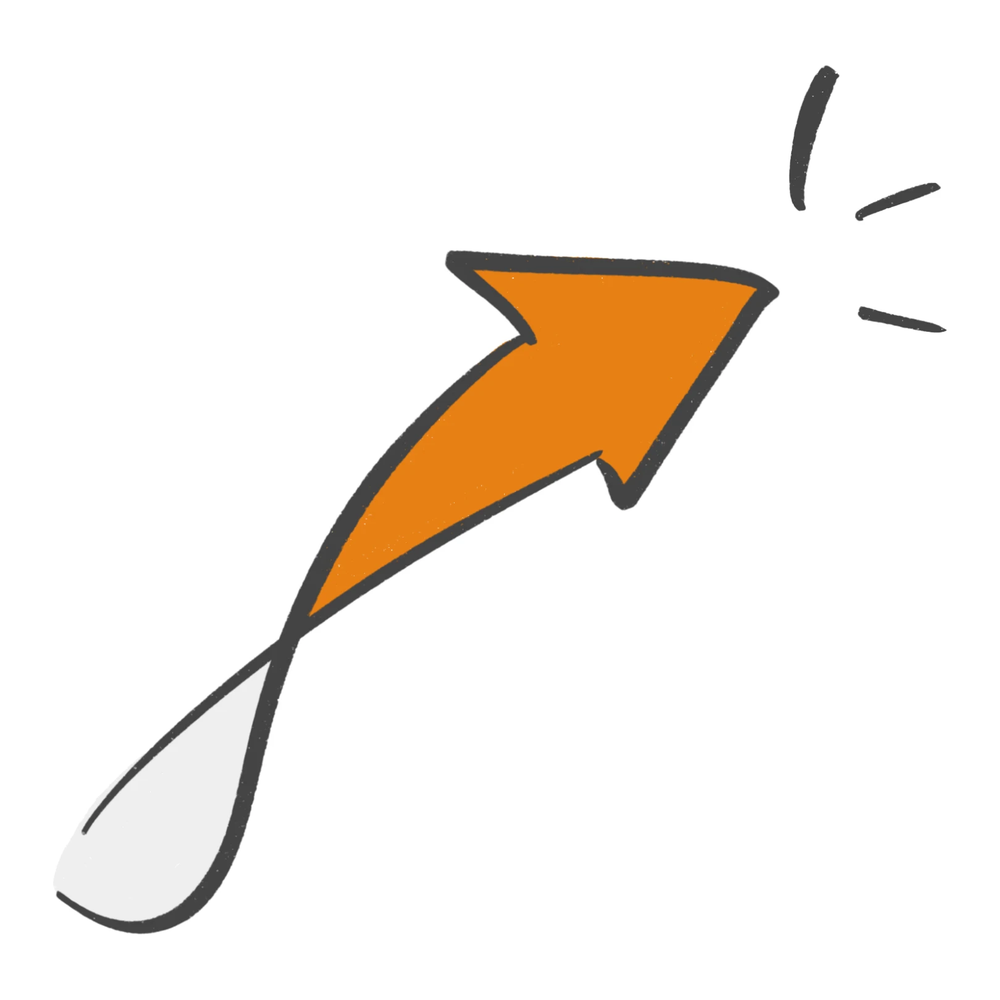
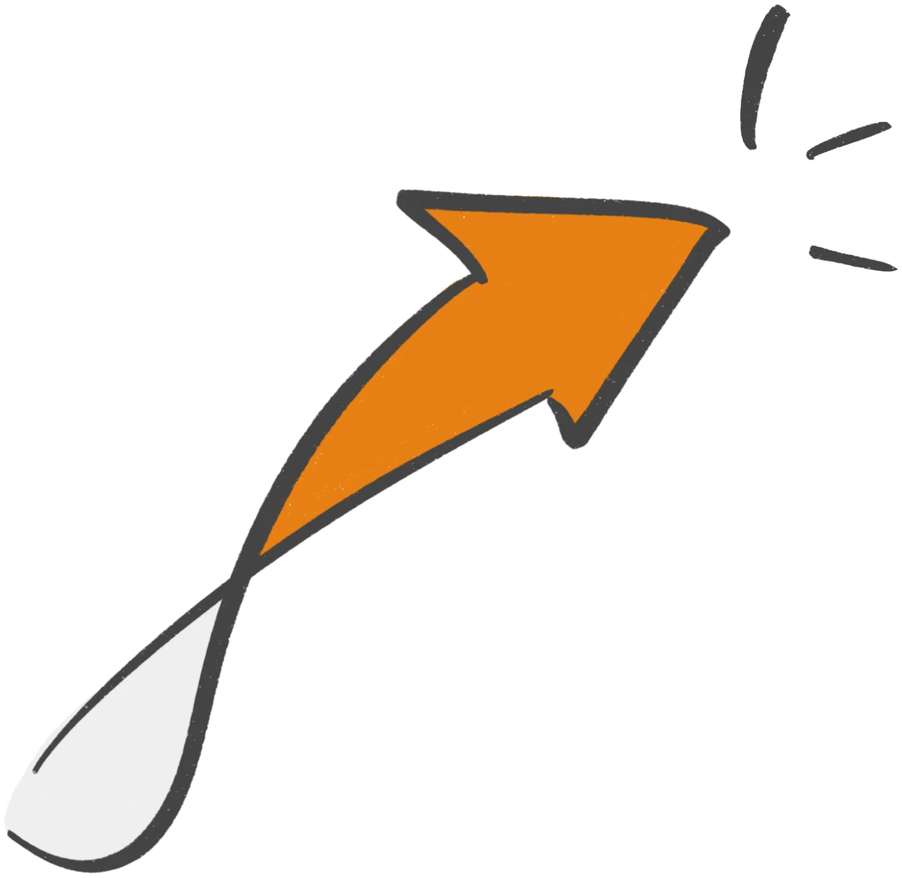
課題イラスト3点の見た目の大きさを揃える
- 各画像の余白を描画部分ぎりぎりまで切り詰め
- 描画部分の面積が揃うよう、枠内の幅を個別に指定（目的81%／転換80%／機会100%）
- 枠を w-28 sm:w-36 md:w-40 に広げ、横長の「変革の機会」が小さく見えないように

diff --git a/index.html b/index.html
@@ -178,9 +178,12 @@
     </h2>
     <div class="mt-10 grid md:grid-cols-2 gap-6 md:gap-8 max-w-5xl mx-auto">
       <div class="md:col-span-2 md:w-[calc(50%-1rem)] md:mx-auto bg-white rounded-2xl shadow-sm hover:shadow-lg transition p-6 sm:p-8 flex gap-5 items-center">
-        <img src="./images/challenge-purpose.png"
-             alt="「HOW」ばかりを考え、「WHY」を見失っている人のイラスト"
-             class="w-24 sm:w-32 md:w-36 h-auto object-contain shrink-0" />
+        <!-- イラストは余白を切り詰めた上で、見た目の大きさが揃うよう幅を個別に調整 -->
+        <div class="shrink-0 w-28 sm:w-36 md:w-40 flex justify-center">
+          <img src="./images/challenge-purpose.png"
+               alt="「HOW」ばかりを考え、「WHY」を見失っている人のイラスト"
+               class="w-[81%] h-auto" />
+        </div>
         <div class="flex-1">
           <h3 class="text-lg sm:text-xl font-bold text-brand-green">目的の喪失</h3>
           <p class="mt-2 text-brand-dark/80 leading-relaxed text-sm sm:text-base">
@@ -189,9 +192,11 @@
         </div>
       </div>
       <div class="bg-white rounded-2xl shadow-sm hover:shadow-lg transition p-6 sm:p-8 flex gap-5 items-center">
-        <img src="./images/challenge-change.png"
-             alt="時代の転換を表す、上向きに跳ねるオレンジの矢印のイラスト"
-             class="w-24 sm:w-32 md:w-36 h-auto object-contain shrink-0" />
+        <div class="shrink-0 w-28 sm:w-36 md:w-40 flex justify-center">
+          <img src="./images/challenge-change.png"
+               alt="時代の転換を表す、上向きに跳ねるオレンジの矢印のイラスト"
+               class="w-[80%] h-auto" />
+        </div>
         <div class="flex-1">
           <h3 class="text-lg sm:text-xl font-bold text-brand-green">時代の転換</h3>
           <p class="mt-2 text-brand-dark/80 leading-relaxed text-sm sm:text-base">
@@ -200,9 +205,11 @@
         </div>
       </div>
       <div class="bg-white rounded-2xl shadow-sm hover:shadow-lg transition p-6 sm:p-8 flex gap-5 items-center">
-        <img src="./images/challenge-opportunity.png"
-             alt="「ものづくり」を見上げる人々と、雲の中に描かれた新しい社会のイラスト"
-             class="w-24 sm:w-32 md:w-36 h-auto object-contain shrink-0" />
+        <div class="shrink-0 w-28 sm:w-36 md:w-40 flex justify-center">
+          <img src="./images/challenge-opportunity.png"
+               alt="「ものづくり」を見上げる人々と、雲の中に描かれた新しい社会のイラスト"
+               class="w-full h-auto" />
+        </div>
         <div class="flex-1">
           <h3 class="text-lg sm:text-xl font-bold text-brand-green">変革の機会</h3>
           <p class="mt-2 text-brand-dark/80 leading-relaxed text-sm sm:text-base">
